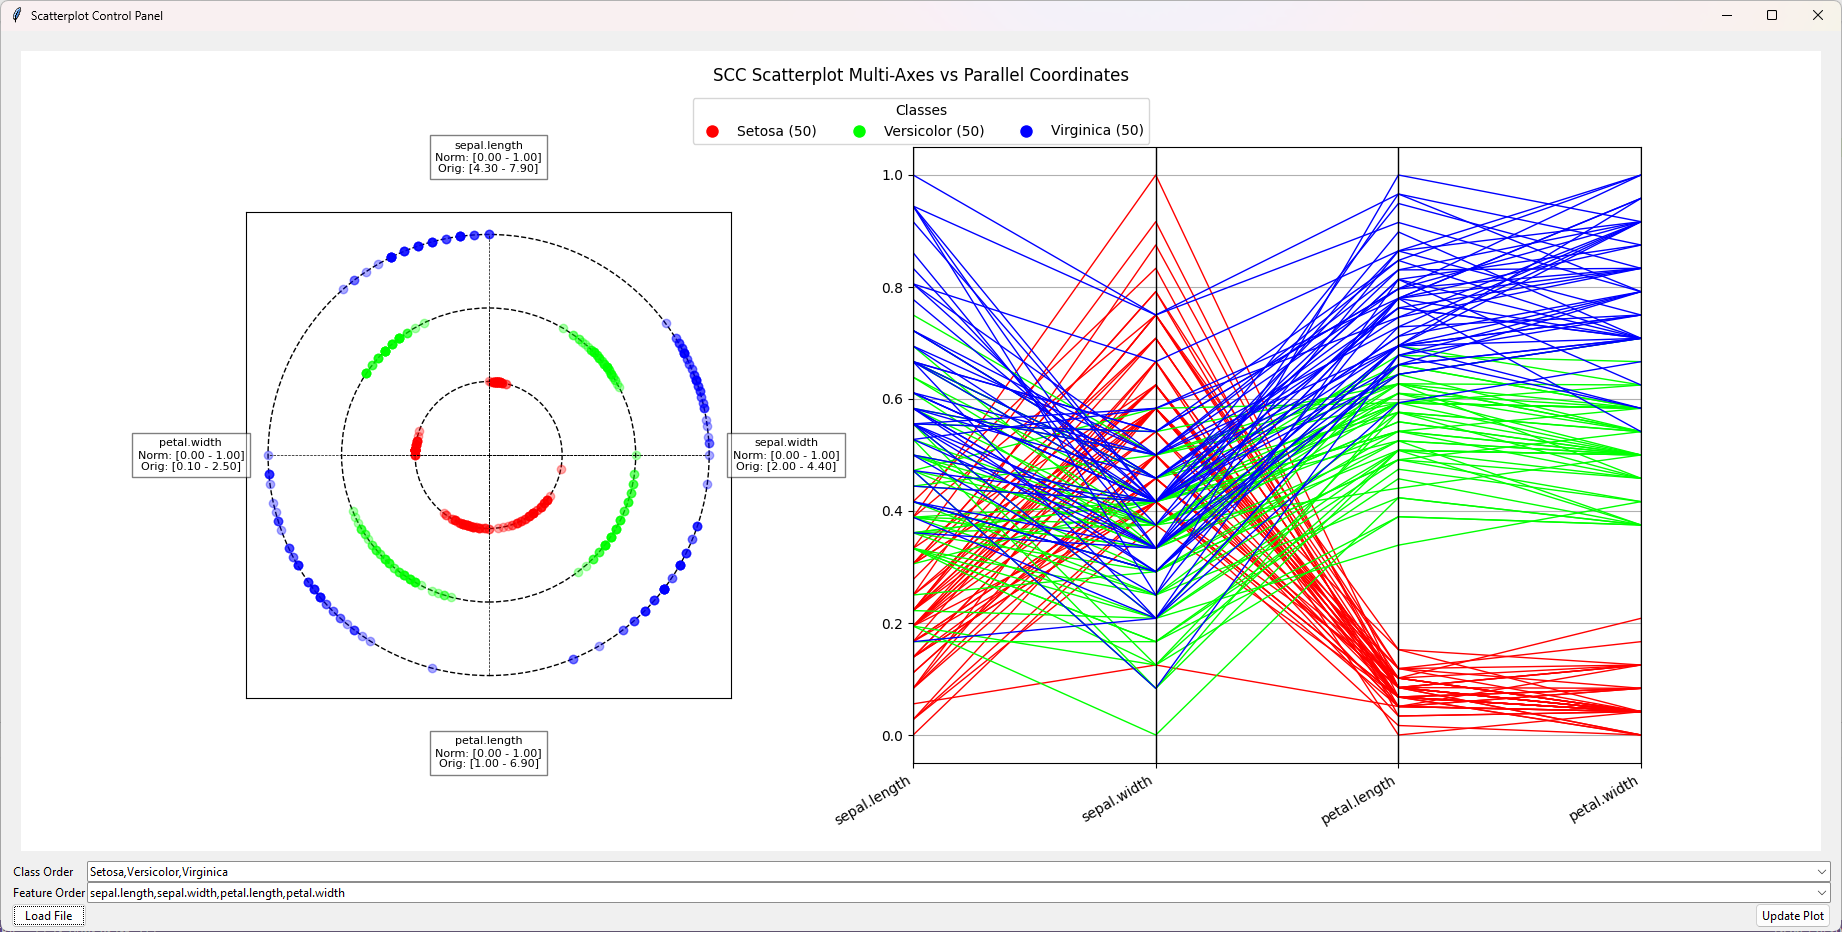
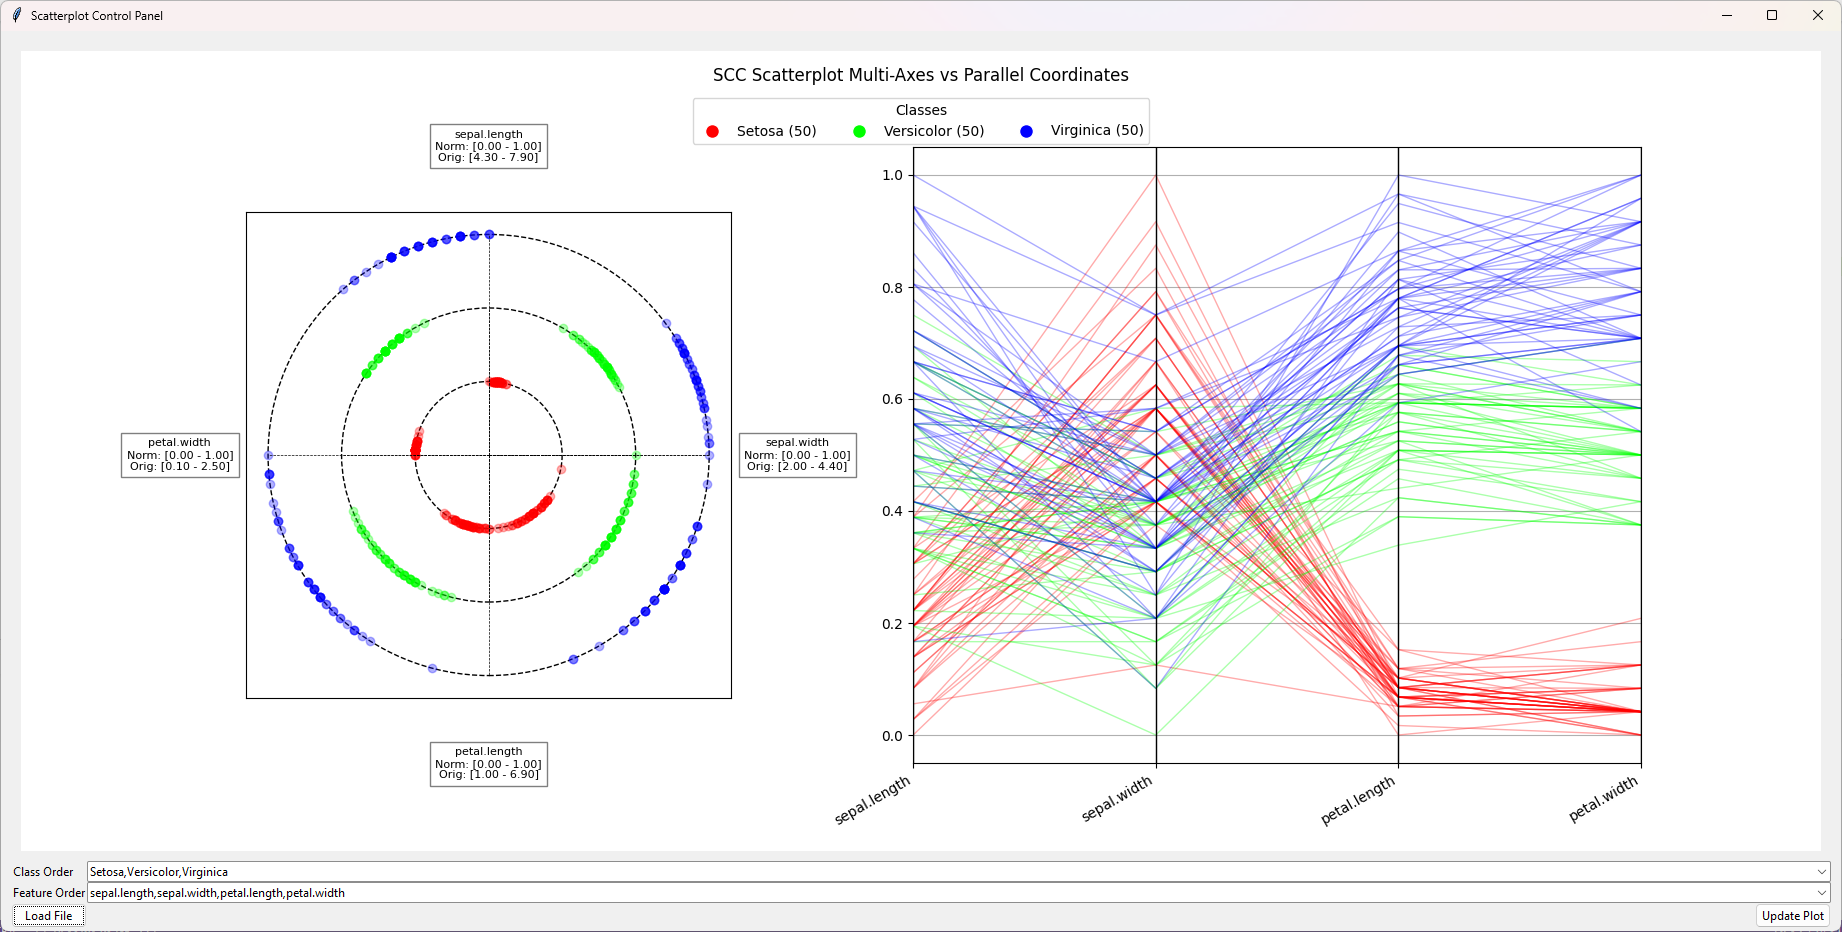
Outlier trace demo screenshot

diff --git a/README.md b/README.md
@@ -16,10 +16,13 @@ X, Y, Z, W, class,
 
 If the class name is `benign` or `malignant` case-insensitive then the class color assigned is green and red respectively. Otherwise, we linearly divide the HSV color model for a visually distinct default color palette.
 
-## Screenshots
+## Demonstrative Screenshots
 
-Demo screenshot of Fisher Iris dataset:
+Fisher Iris dataset default visualization:
 ![Demo screenshot of Iris dataset](screenshots/demo_iris.png)
+
+Tracing a outier in Setosa class sepal.width attribute of Fisher Iris dataset.
+![Demo screenshot of Iris dataset](screenshots/demo_iris_outlier.png)
 
 ## License
 
